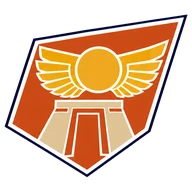
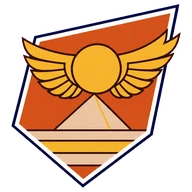
Swap in Mirage's redone emblem, centred on its slanted shield
Each F2b redo sits on its own sheet and replaces F2's emblem when it is
there. The README's prompt now asks for Aurora's redo too: an upright sword
through a halo, nothing like Vanta's star.

Claude-Session: https://claude.ai/code/session_01SRYu9jH5hsHdBaNMVPBWoP

diff --git a/tools/bg/build_hud.py b/tools/bg/build_hud.py
@@ -18,8 +18,7 @@ What it does to the sheets:
 - Emblems and countdown (U3): each piece cut out by its outline; the emblems
   centred on squares, the lettering kept at its own shape. Mirage's and
   Aurora's emblems come the same way from the top row of the F2 sheet's 2x2
-  grid; a redone Mirage emblem on its own sheet (faction-f2b-mirage-emblem.png),
-  if there is one, replaces F2's.
+  grid, each replaced by its redo on its own sheet (F2b) when that is there.
 """
 import os
 
@@ -131,12 +130,12 @@ def main():
             q = resized(p, max(1, round(p.shape[1] * h / p.shape[0])), h)
             aspect[name] = round(q.shape[1] / q.shape[0], 4)
         files[name] = save(q, os.path.join(d, f'{name}.webp'), 90)
-    # The newer teams' emblems: F2's top row, or a redone emblem on its own.
+    # The newer teams' emblems: F2's top row, each replaced by its redo (F2b) when that is there.
     f2 = pieces(sheet('faction-f2-emblems.png', FACTION_SHEETS), 2, 2, 2000)[:2]
     for name, p in zip(F2, f2):
-        redo = os.path.join(FACTION_SHEETS, f'faction-f2b-{name}-emblem.png')
-        if os.path.exists(redo):
-            p = pieces(sheet(os.path.basename(redo), FACTION_SHEETS), 1, 1, 2000)[0]
+        redo = f'faction-f2b-{name}-emblem.png'
+        if os.path.exists(os.path.join(FACTION_SHEETS, redo)):
+            p = pieces(sheet(redo, FACTION_SHEETS), 1, 1, 2000)[0]
         files[name] = save(on_square(p, 192, 0.02), os.path.join(d, f'{name}.webp'), 90)
     lines = [
         '// Generated by tools/bg/build_hud.py from art/hud-sheets and art/faction-sheets. Do not edit by hand.',

diff --git a/art/faction-sheets/README.md b/art/faction-sheets/README.md
@@ -10,9 +10,11 @@ and checked one sheet at a time, like the other sheets in `art/`.
 | F1 Pilots | Six head-and-shoulders portraits, full bleed, 3x2: Mirage's three, then Aurora's | The comms cut-ins, the target panel and the results, as for Solstice's and Vanta's pilots |
 | F2 Emblems and lettering | The two emblems and the two teams' names as painted on their hangar walls, on green, 2x2 | The score panel, the standings, the results, the garage, the mechs' markings and the hangar's back wall; the name on the hangar walls |
 
-All of it is in the game. Mirage's emblem is to be redone (F2b) so its
-symbols sit on the slanted shield's middle; the build takes the redo in place
-of F2's when the file is there.
+All of it is in the game. F2's two emblems were redone (F2b): Mirage's so
+its symbols sit on the slanted shield's middle (done), Aurora's so it is
+nothing like Vanta's (to come). The build takes each redo, on its own sheet,
+in place of F2's when the file is there; the prompt below asks for both on
+one sheet, but either can come on its own.
 
 What to attach:
 
@@ -27,8 +29,9 @@ What to attach:
 | Sheet | File | Notes |
 |---|---|---|
 | F1 Pilots | faction-f1-pilots.png | in the game (cut by `tools/bg/build_hud.py`). Aurora's genders changed from the prompt: Iris and Bastion are men, Vesper a woman |
-| F2 Emblems and lettering | faction-f2-emblems.png | in the game (emblems cut by `tools/bg/build_hud.py`, names by `tools/bg/build_hangar.py`). Mirage's emblem sits off-centre in its slanted shield; a redo is below |
-| F2b Mirage emblem, redone | faction-f2b-mirage-emblem.png | to make; replaces F2's Mirage emblem when it is there |
+| F2 Emblems and lettering | faction-f2-emblems.png | in the game (emblems cut by `tools/bg/build_hud.py`, names by `tools/bg/build_hangar.py`). Its emblems are to be redone (F2b): Mirage's sits off-centre in its slanted shield, and Aurora's star in a ring is too close to Vanta's |
+| F2b Mirage emblem, redone | faction-f2b-mirage-emblem.png | in the game, in place of F2's |
+| F2b Aurora emblem, redone | faction-f2b-aurora-emblem.png | to make; replaces F2's when it is there |
 
 ## The prompt
 
@@ -71,26 +74,30 @@ SHEET F2: EMBLEMS AND HANGAR LETTERING (four pieces on green, cut out by the gam
 - Spell both names exactly as given.
 ```
 
-## The prompt for F2b (Mirage's emblem, redone)
+## The prompt for F2b (both emblems, redone)
 
 ```
-ZENITH GP: TEAM MIRAGE EMBLEM (redo; one piece on green)
+ZENITH GP: TEAM MIRAGE AND TEAM AURORA EMBLEMS (redo; two pieces on green, one image)
 
-A team emblem for a mech racing game in the style of a 1980s Japanese TV mecha anime, drawn by the same hand as the attached emblems. Match them exactly: the same slanted shield outline (the attached Mirage emblem's shield, kept as it is: a thick white border inside a thin navy outline), flat colour, hard edges, a clean logo of the period. Not a photo or 3D render; no gradients, glow, texture, blur or grain. Original design: nothing that resembles an existing logo or brand. No letters.
+Two team emblems for a mech racing game in the style of a 1980s Japanese TV mecha anime, drawn by the same hand as the attached emblems. Match them exactly: the same slanted shield outline as the attached Mirage and Aurora emblems (a thick white border inside a thin navy #0D1630 outline), flat colour, hard edges, a clean logo of the period. Not a photo or 3D render; no gradients, glow, texture, blur or grain. Original designs: nothing that resembles an existing logo or brand. No letters.
 
-Colours: rust orange #C75F2A field, gold #E9B43C, sand #DCC59A, dark brown #3B2A22 for any inner lines; white border, navy #0D1630 outline.
-
-THE COMPOSITION (this is the point of the redo)
+THE COMPOSITION, BOTH EMBLEMS (this is the point of the redo)
 - The shield leans like italic lettering, so its middle shifts right toward the top. Centre every symbol on that slanted middle line: halfway between the shield's left and right edges at the height where the symbol sits. Do not centre on the image, or on an upright shield.
-- Anything wider than the shield runs right across it, edge to edge, and is cut off cleanly by the white border, the way the attached Solstice emblem's rays and horizon lines are.
+- Like the attached Solstice and Vanta emblems, the boldest parts may break out past the shield: drawn over the white border and beyond it onto the green, with the same navy outline, so the emblem's outline isn't just the shield's.
 - Nothing floats near one edge while leaving empty space at the other.
 
-THE DESIGN
-- Upper half: a big gold sun disc on the slanted middle line, with a pair of outspread falcon wings either side of it in gold with brown feather lines. The wings sweep out and up and run past the shield's edges, cut off by the border.
-- Lower third: a sand-coloured pyramid with its apex on the slanted middle line and a thin gold line down one face. It stands on three level bands of sand and gold dunes that run edge to edge across the bottom of the shield, cut off by the border at both sides.
-- The pyramid's apex nearly touches the underside of the sun disc.
+LEFT: TEAM MIRAGE (rust orange #C75F2A field; gold #E9B43C, sand #DCC59A, dark brown #3B2A22 inner lines)
+- Upper half: a big gold sun disc on the slanted middle line, with outspread falcon wings either side in gold with brown feather lines. The wings sweep out and up, and their tips break out past the shield's sides.
+- Lower third: a sand pyramid with its apex on the slanted middle line, nearly touching the underside of the sun disc, and a thin gold line down one face. It stands on three level bands of sand and gold dunes that run edge to edge across the bottom of the shield, cut off by the border.
+
+RIGHT: TEAM AURORA (deep violet #5A3EA6 field; pearl #ECE8F4 and silver #C8CCDA; dark indigo #241F3A inner lines)
+- An upright knight's sword on the slanted middle line, point up: a long straight pearl blade with a silver fuller line, a broad silver crossguard, a round pommel. The point breaks out past the top edge of the shield; the pommel sits just inside the bottom point.
+- A silver halo ring around the sword where the blade meets the crossguard, a little wider than the crossguard.
+- A pair of swept pearl wings rising from behind the halo, one either side of the blade, feathers outlined in indigo. Their tips break out past the shield's sides.
+- No star anywhere.
 
 FORMAT
-- One emblem, about 600 px tall, centred on a 1024x1024 image of perfectly flat pure green #00FF00: no shading, texture or glow on the green, and nothing green in the art.
-- Crisp edges against the green, no soft halo; at least 100 px of green on every side.
+- One image, 1536x1024, perfectly flat pure green #00FF00: no shading, texture or glow on the green, and nothing green in the art.
+- Mirage centred in the left half, Aurora centred in the right half, each about 600 px tall including what breaks out of the shield; at least 80 px of green between each emblem and the image's edges, and between the two.
+- Crisp edges against the green, no soft halo.
 ```
